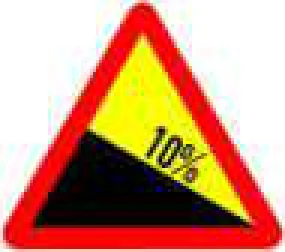
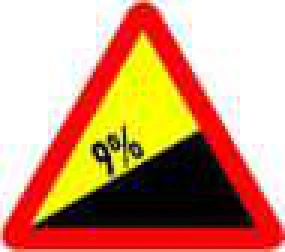
W.220 dùng đúng hình dốc lên, test chặn hai biển trùng hình
Hình W.220 bị khớp nhầm vào ảnh W.219 vì chú thích hình C.21 trong PDF
thiếu chữ W. Cắt lại W.220 từ hình C.22 và thêm test để không biển nào
dùng chung nội dung hình với biển khác.

Claude-Session: https://claude.ai/code/session_01VYvFMMr2ig2YUB8Vmht1cH

diff --git a/test/exam_test.dart b/test/exam_test.dart
@@ -1,3 +1,4 @@
+import 'dart:convert';
 import 'dart:io';
 import 'dart:math';
 
@@ -46,6 +47,13 @@ void main() {
       if (s.image != null) {
         expect(File(s.image!).existsSync(), isTrue, reason: s.image);
       }
+    }
+    // Mỗi biển một hình riêng: hai biển trùng nội dung hình là đã cắt nhầm.
+    final seen = <String, String>{};
+    for (final s in bank.signs.where((s) => s.image != null)) {
+      final key = base64.encode(File(s.image!).readAsBytesSync());
+      expect(seen[key], isNull, reason: '${s.code} trùng hình với ${seen[key]}');
+      seen[key] = s.code;
     }
     // Chỉ vạch 3.2–3.4 không có hình minh họa riêng trong QCVN 41:2024.
     expect(
